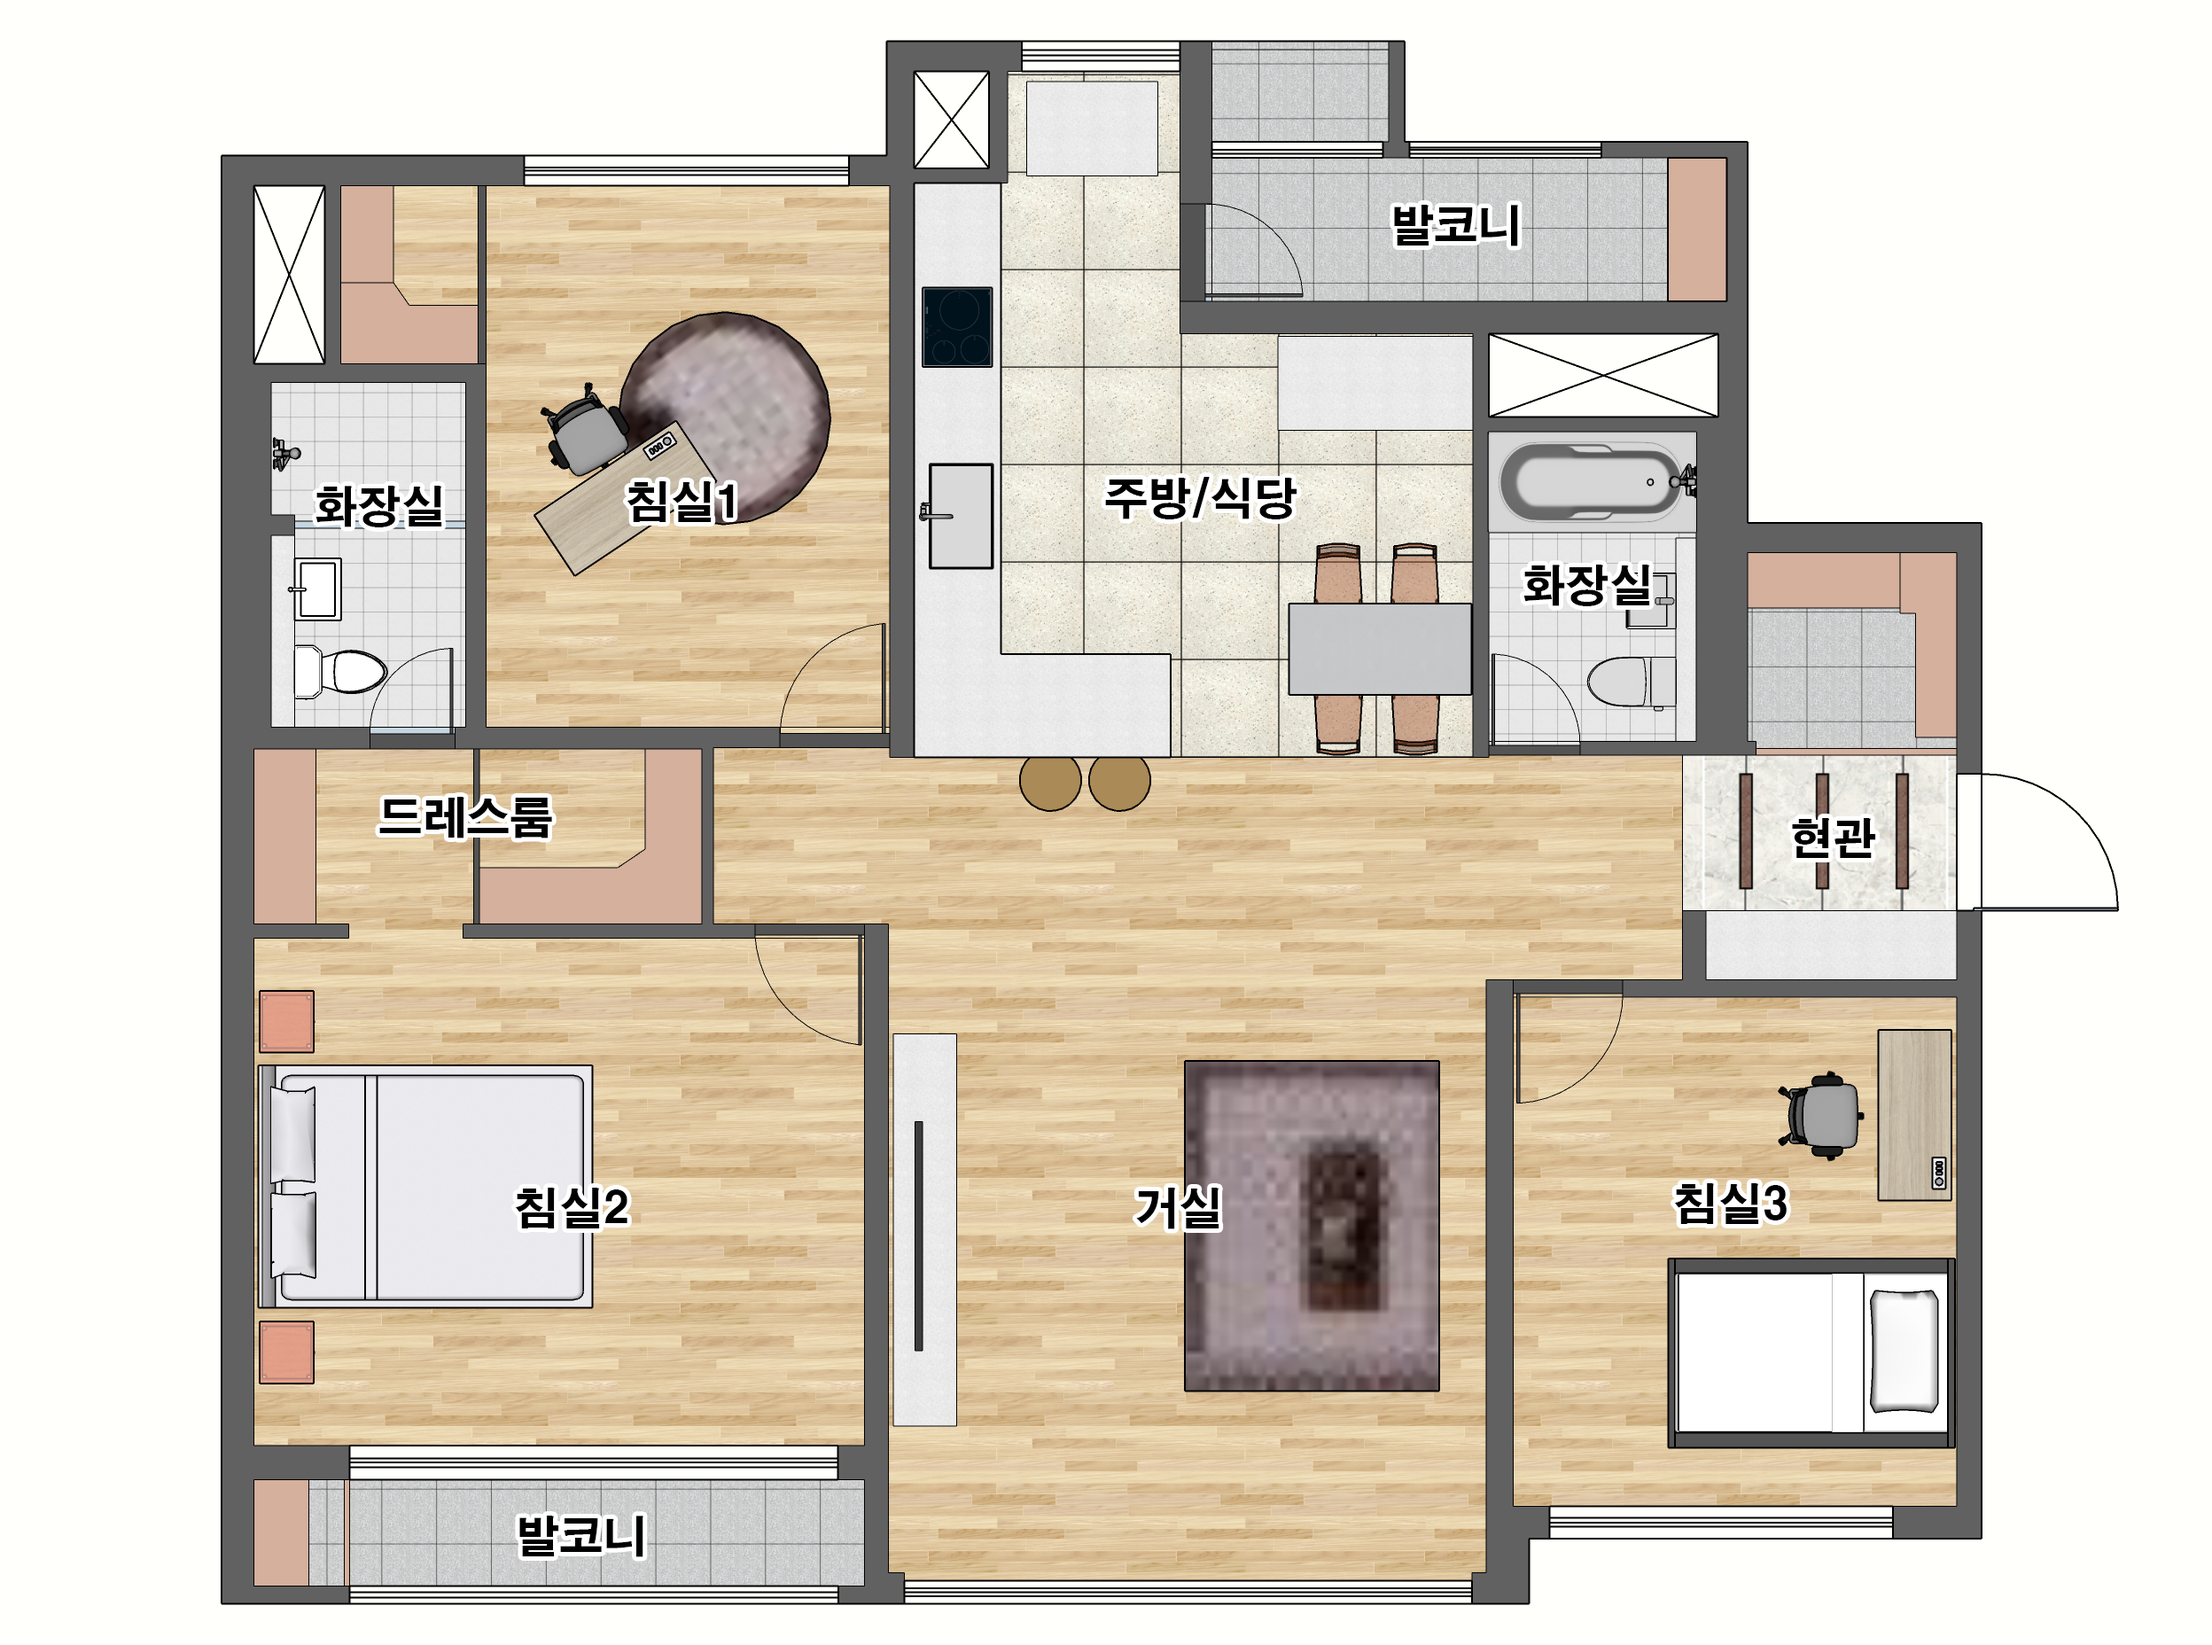
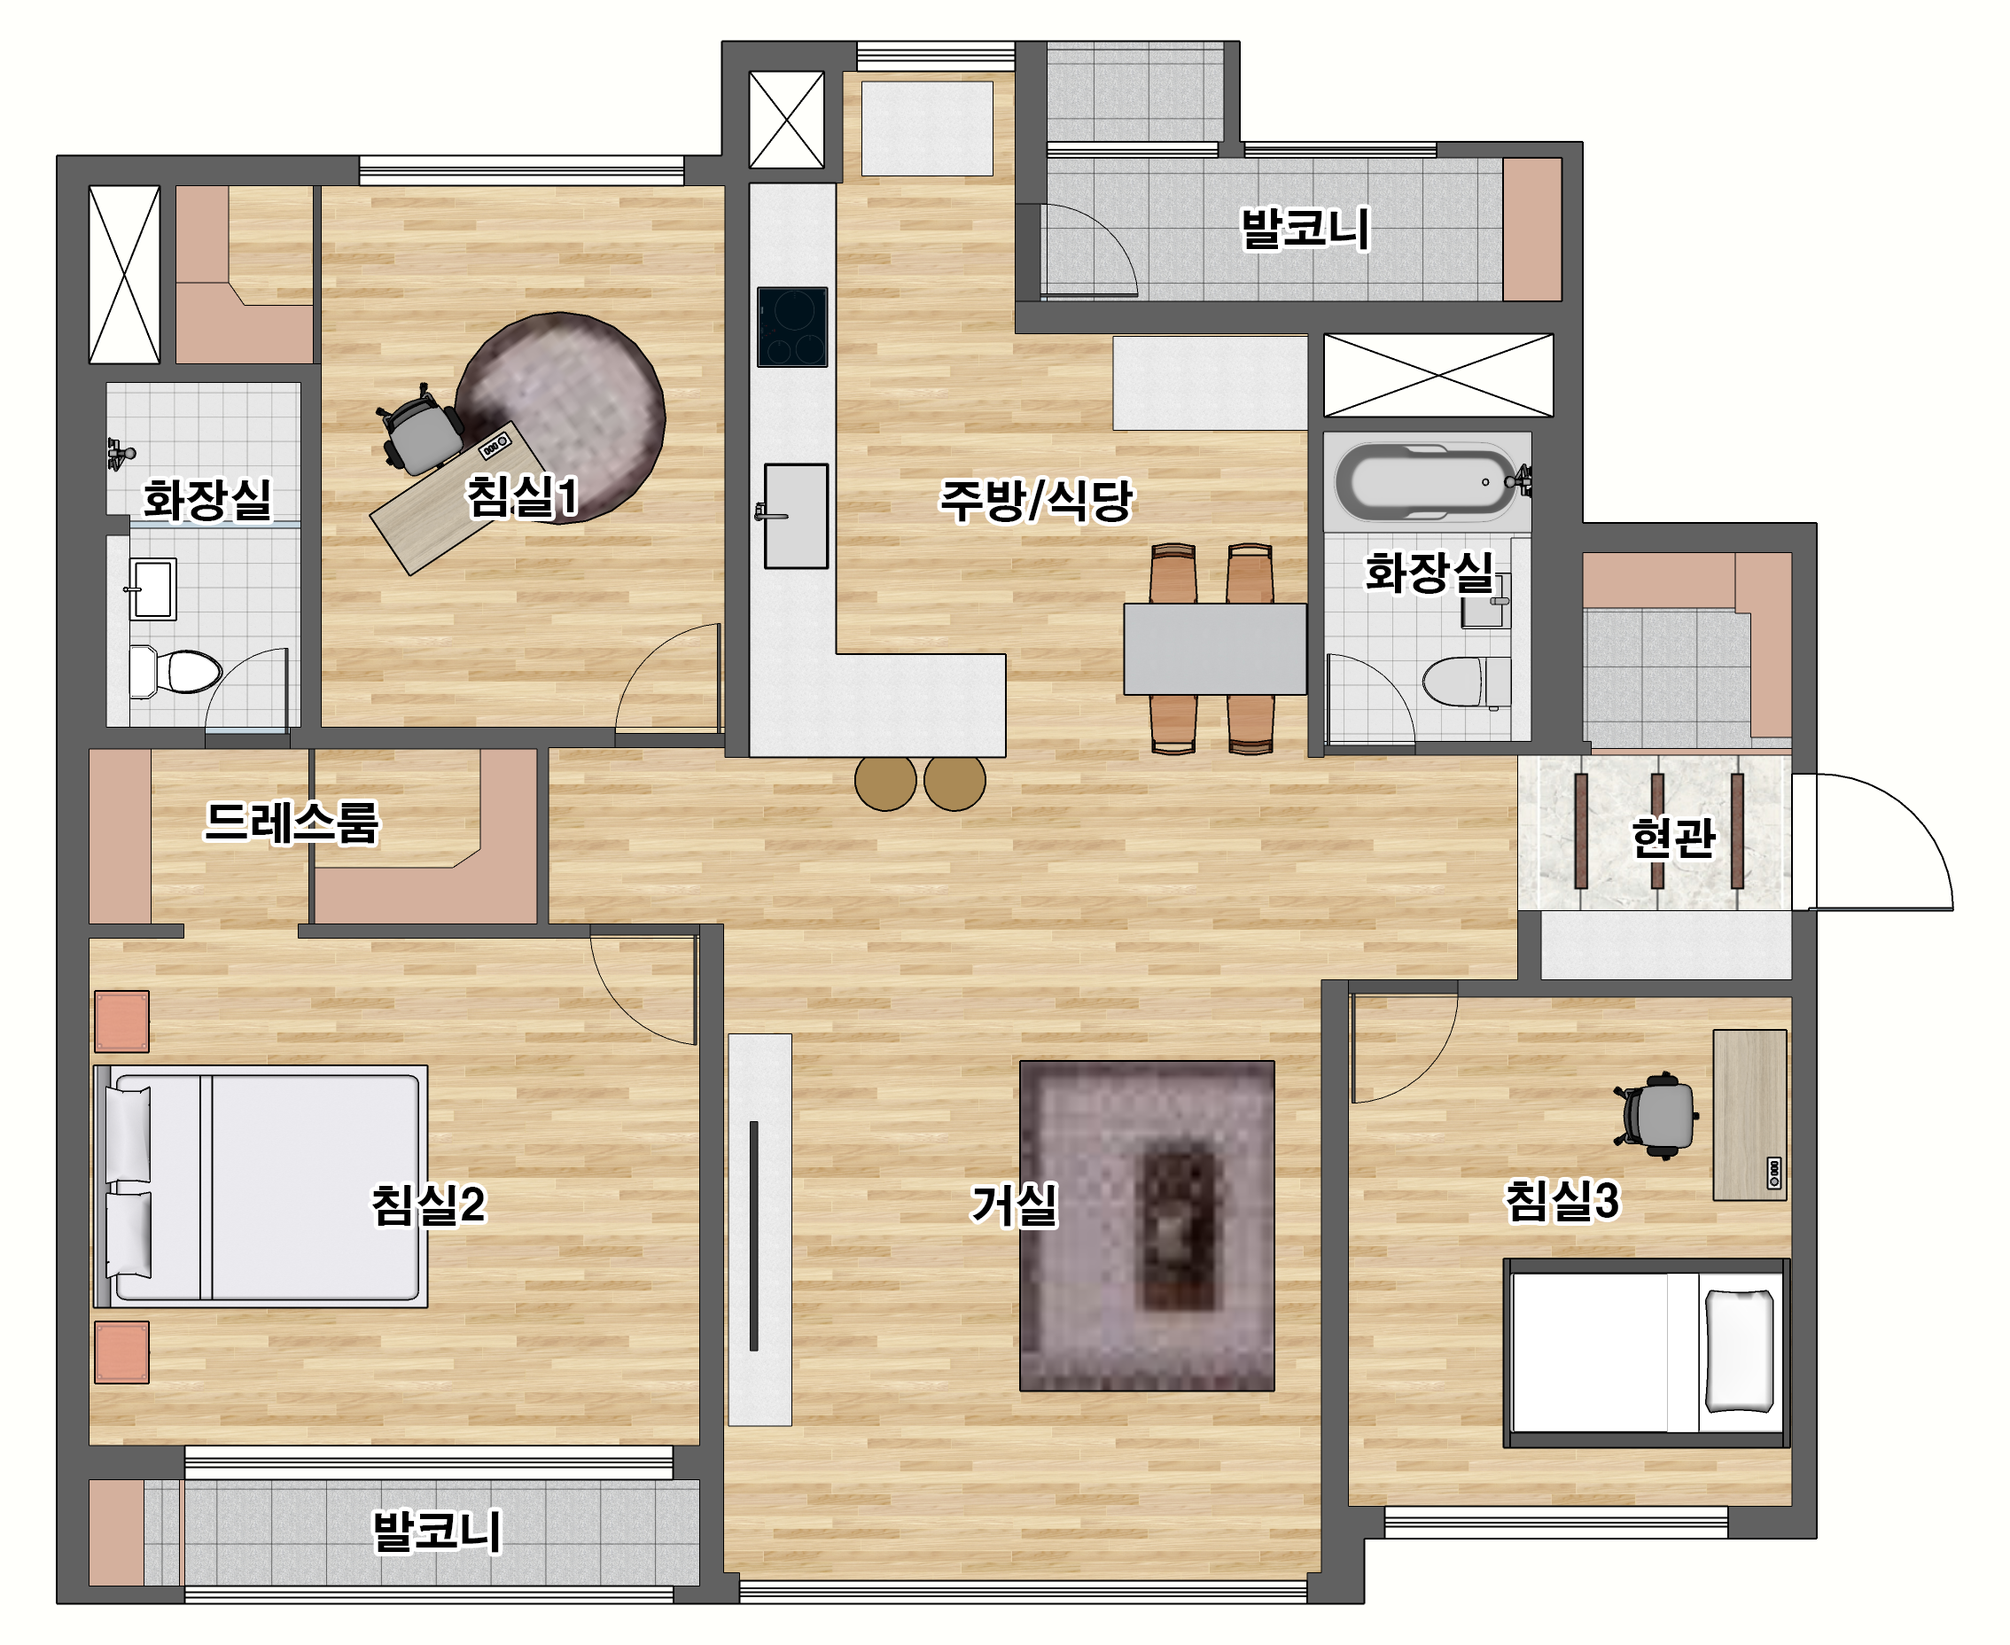
feat(floor): 교체된 C-Type 대칭 평면도 이미지 반영 및 10px 안전 여백·정중앙 정렬 최적화

diff --git a/floor.html b/floor.html
@@ -69,18 +69,20 @@
                 transform-origin: center center !important;
             }
             #plan-view-C img {
-                transform: scale(1.23) translateX(-9px) !important;
-                transform-origin: center center !important;
+                max-width: 100% !important;
+                height: auto !important;
+                max-height: 380px !important;
+                transform: none !important;
             }
         }
         @media (min-width: 640px) {
             #plan-view-C img {
-                width: 550px !important;
-                max-width: none !important;
+                width: 500px !important;
+                max-width: 500px !important;
                 height: auto !important;
-                max-height: 440px !important;
-                transform: translateX(-16px) !important;
-                transform-origin: center center !important;
+                max-height: 420px !important;
+                transform: none !important;
+                margin: 0 auto !important;
             }
         }
     </style>
@@ -271,7 +273,7 @@
                     <img src="images/B-Type-Plan03.png" alt="도안수목토 아파트 B-Type 평면도 (84.98㎡)" class="max-w-[520px] sm:max-w-[620px] max-h-[420px] sm:max-h-[490px] w-auto h-full object-contain mx-auto block drop-shadow-sm">
                 </div>
                 <div id="plan-view-C" class="floor-plan-view hidden w-full max-w-2xl mx-auto flex items-center justify-center h-full">
-                    <img src="images/C-Type-Plan03.png?v=20261122_0555" alt="도안수목토 아파트 C-Type 평면도 (84.93㎡)" class="max-w-full sm:max-w-none sm:w-[550px] max-h-[350px] sm:max-h-[440px] w-auto h-auto object-contain mx-auto block drop-shadow-sm scale-[1.23] sm:scale-100 -translate-x-[9px] sm:-translate-x-[16px] origin-center">
+                    <img src="images/C-Type-Plan03.png?v=20261122_2050" alt="도안수목토 아파트 C-Type 평면도 (84.93㎡)" class="w-full sm:w-[500px] sm:max-w-none max-h-[360px] sm:max-h-[420px] w-auto h-auto object-contain mx-auto block drop-shadow-sm origin-center">
                 </div>
                 <div id="plan-view-D" class="floor-plan-view hidden w-full"></div>
             </div>
